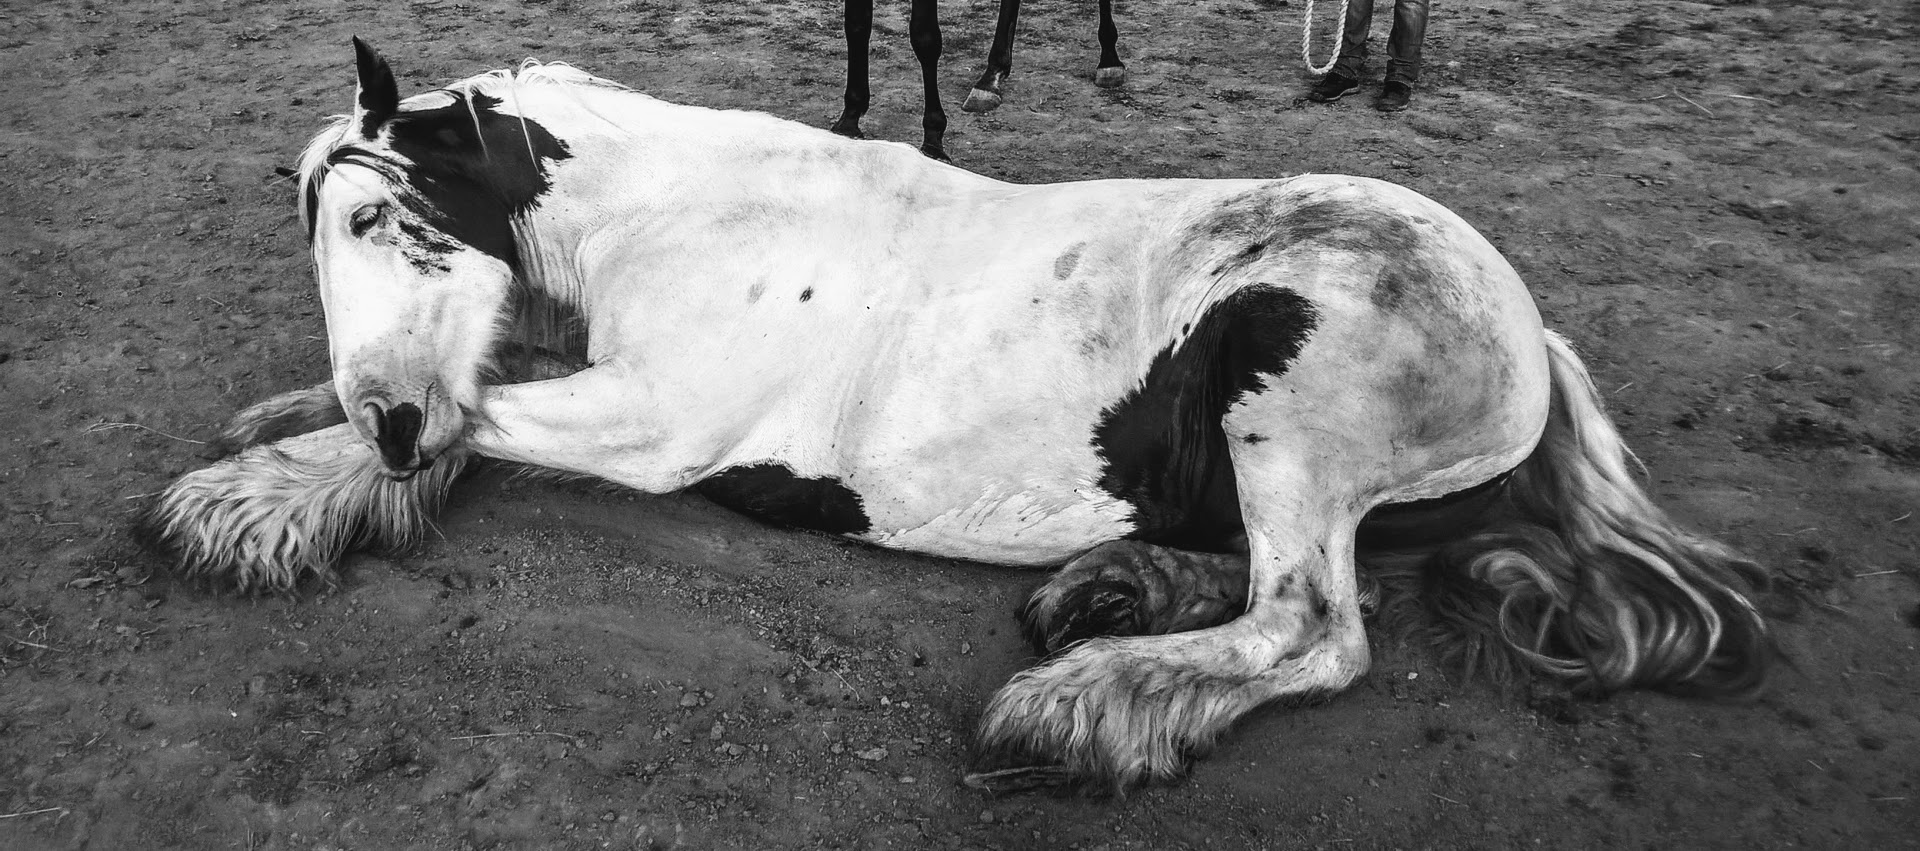
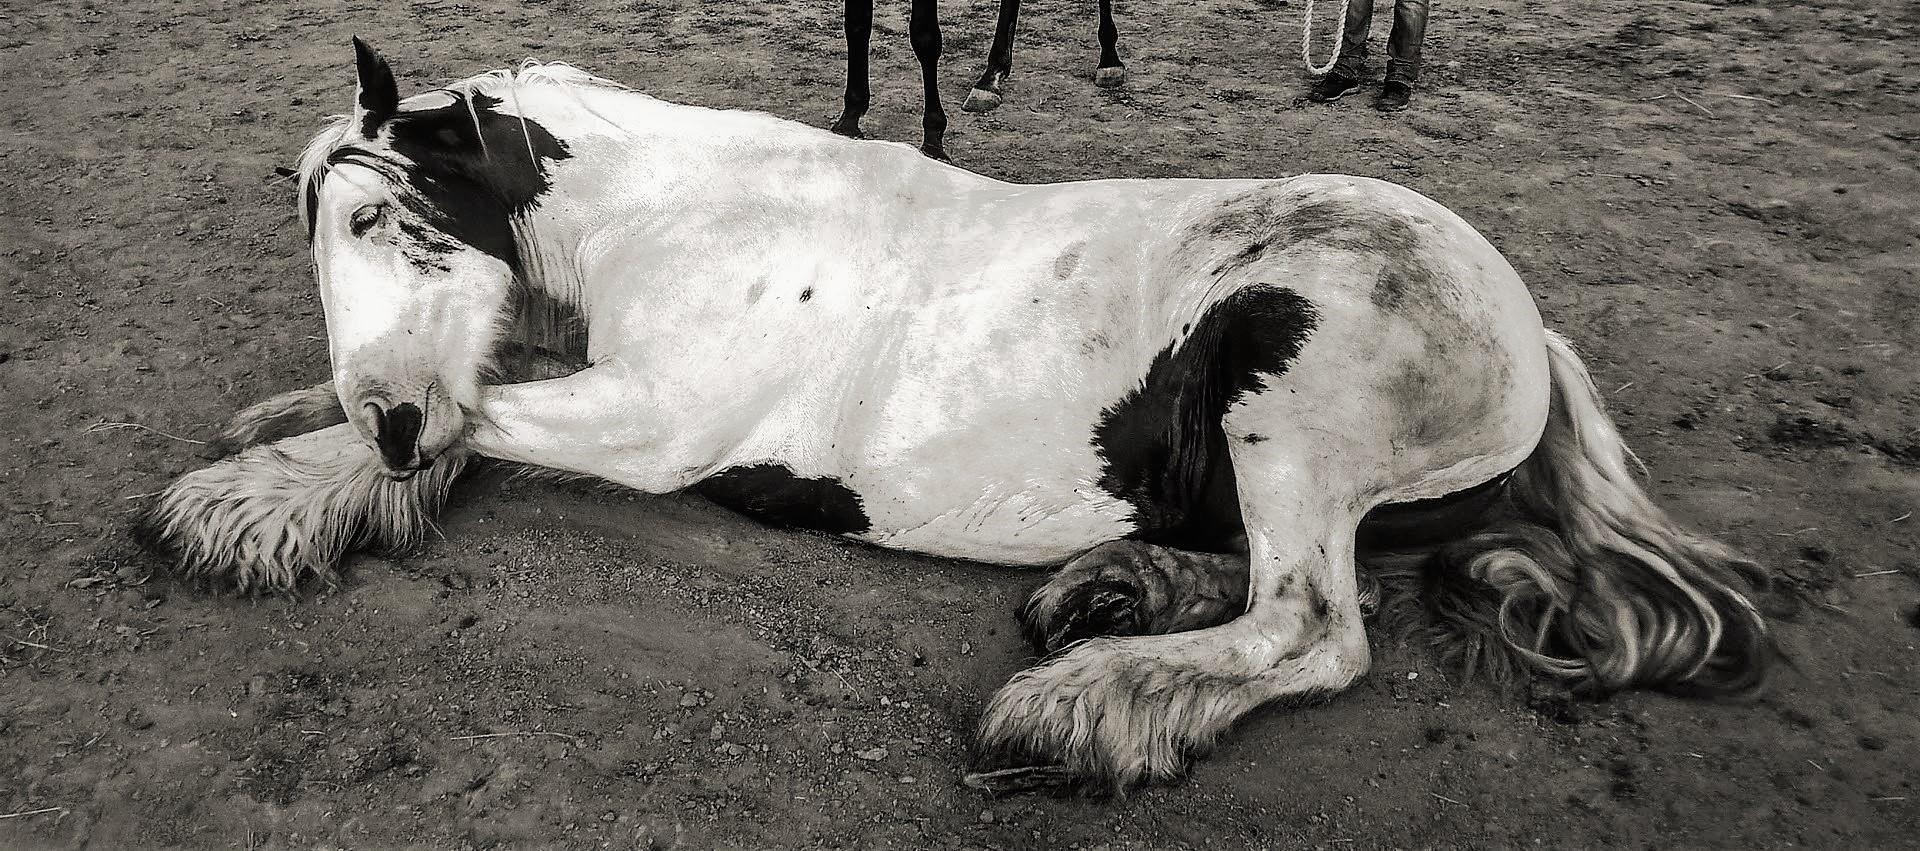
edited image in index.html

diff --git a/about-me.html b/about-me.html
@@ -63,12 +63,13 @@
                 display: flex;
                 justify-content: center;
             }
-            ul {
+            .nav {
                 list-style-type: none;
                 background-color: rosybrown;
                 width: 200px;
                 margin: 0;
                 padding: 0;
+            
             }
             li a {
                 font-size: 25px;
@@ -127,17 +128,17 @@
         <div class="heading-holder">
             <h1 class="main-heading">Konjički klub Debora</h1>
         </div>
+        <ul class="navigation">
+            <li><a href="index.html">Naslovna</a></li>
+            <li><a class="active" href="aboutme.html">O meni</a></li>
+            <li><a href="riding-school.html">Škola jahanja</a></li>
+            <li><a href="https://hr.wikipedia.org/wiki/Konji" title="Wikipedia stranica o konjima" target="_blank">Više o konjima</a></li>
+            <li><a href="contact.html">Kontakt</a></li>
+        </ul>
         <div class="page-body-holder">
             <div class="page-body">
                 <div class=info-holder>
                     <div class="info">
-                        <ul class="navigation">
-                            <li><a href="index.html">Naslovna</a></li>
-                            <li><a class="active" href="aboutme.html">O meni</a></li>
-                            <li><a href="riding-school.html">Škola jahanja</a></li>
-                            <li><a href="https://hr.wikipedia.org/wiki/Konji" title="Wikipedia stranica o konjima" target="_blank">Više o konjima</a></li>
-                            <li><a href="contact.html">Kontakt</a></li>
-                        </ul>
                     </div>
                 </div>
                 <div class="about-me">
